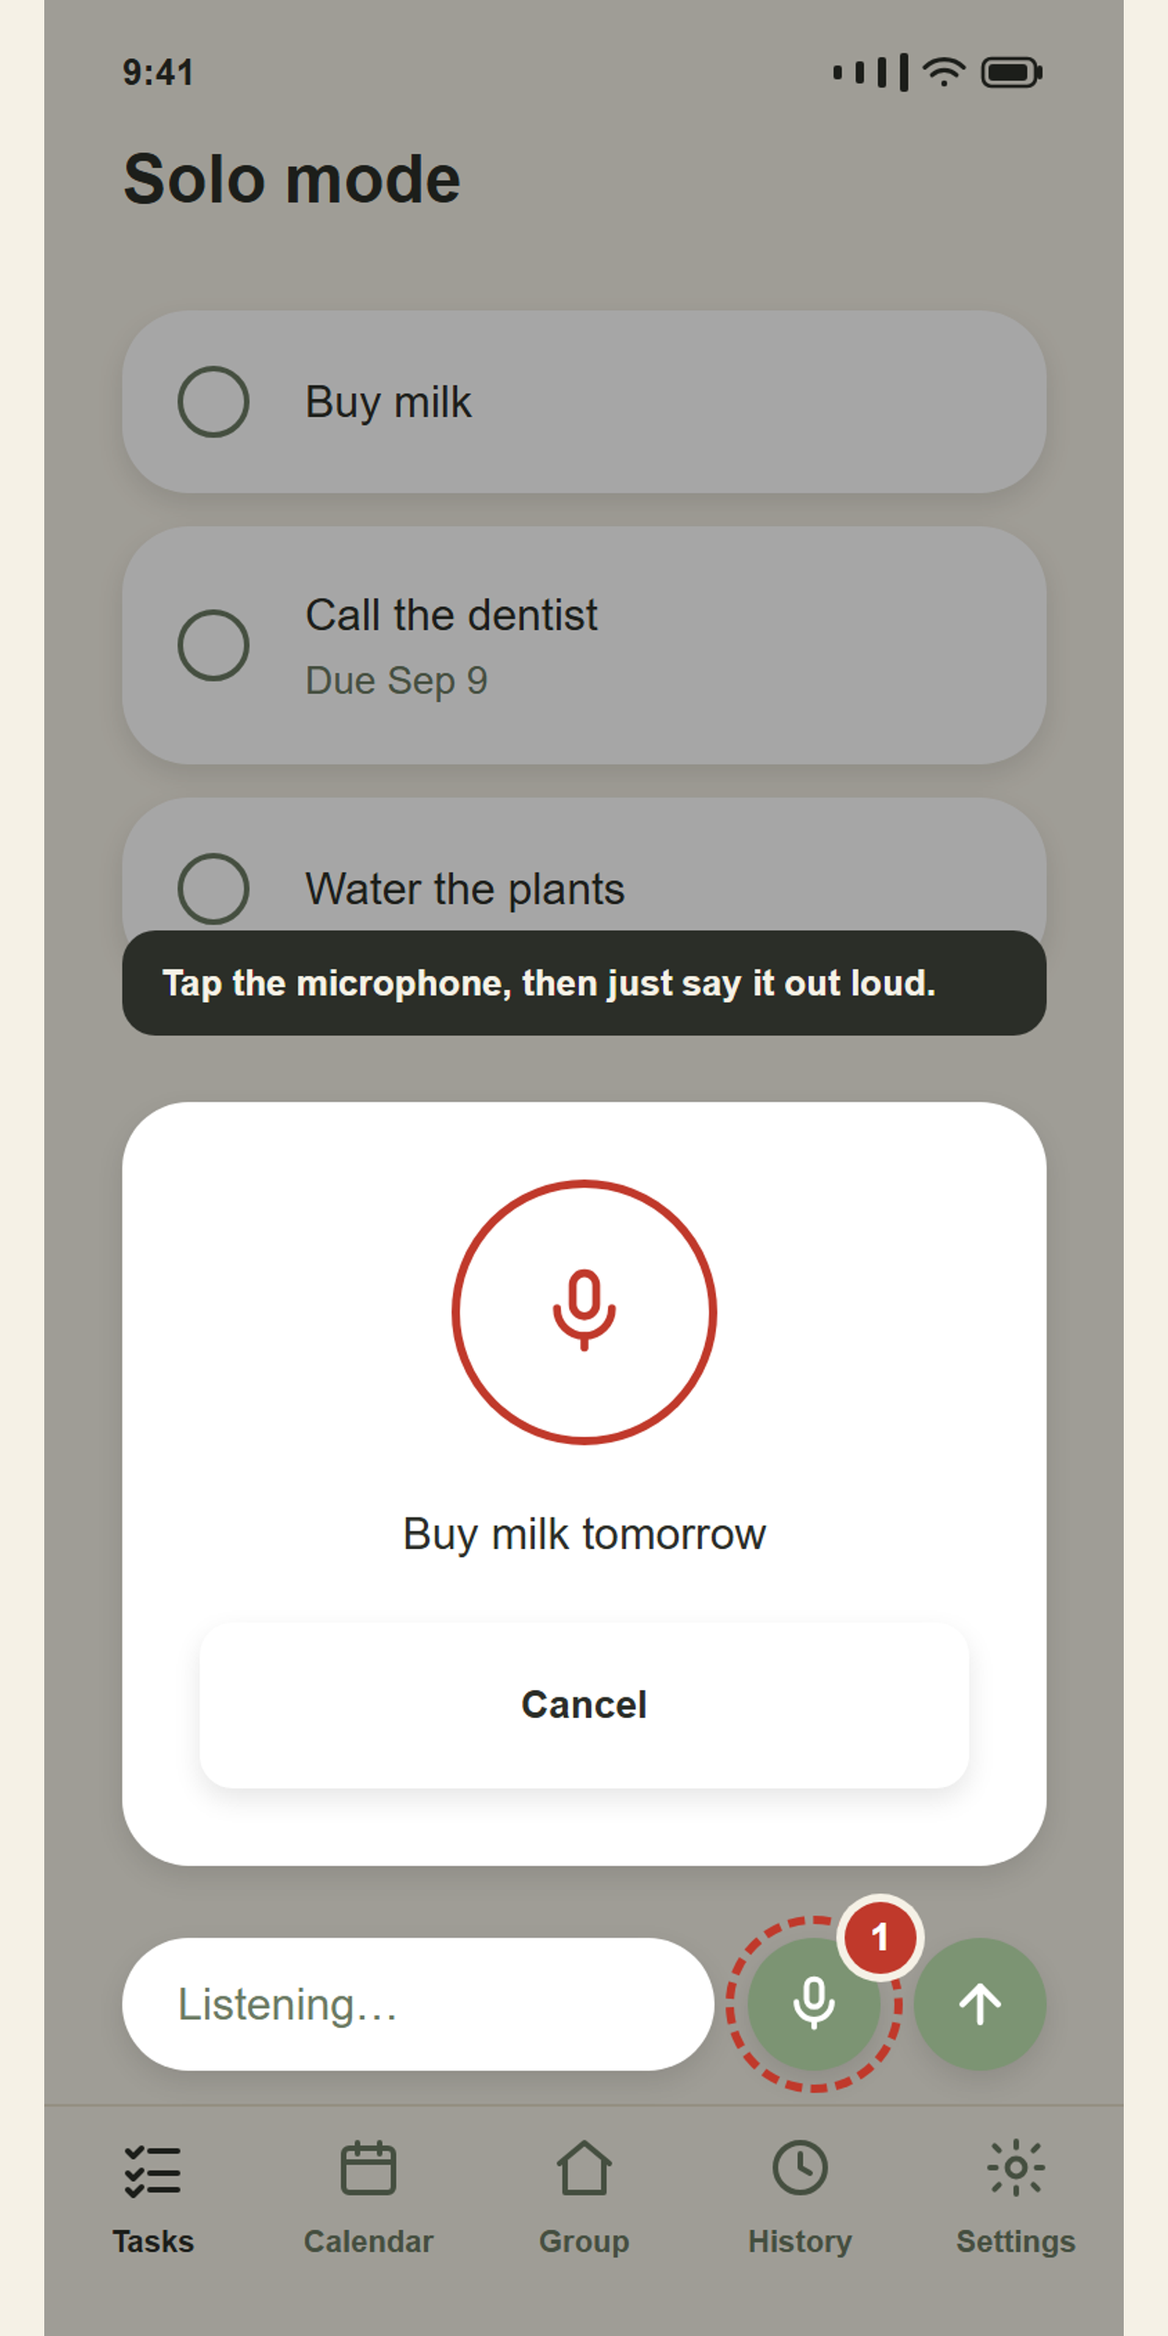
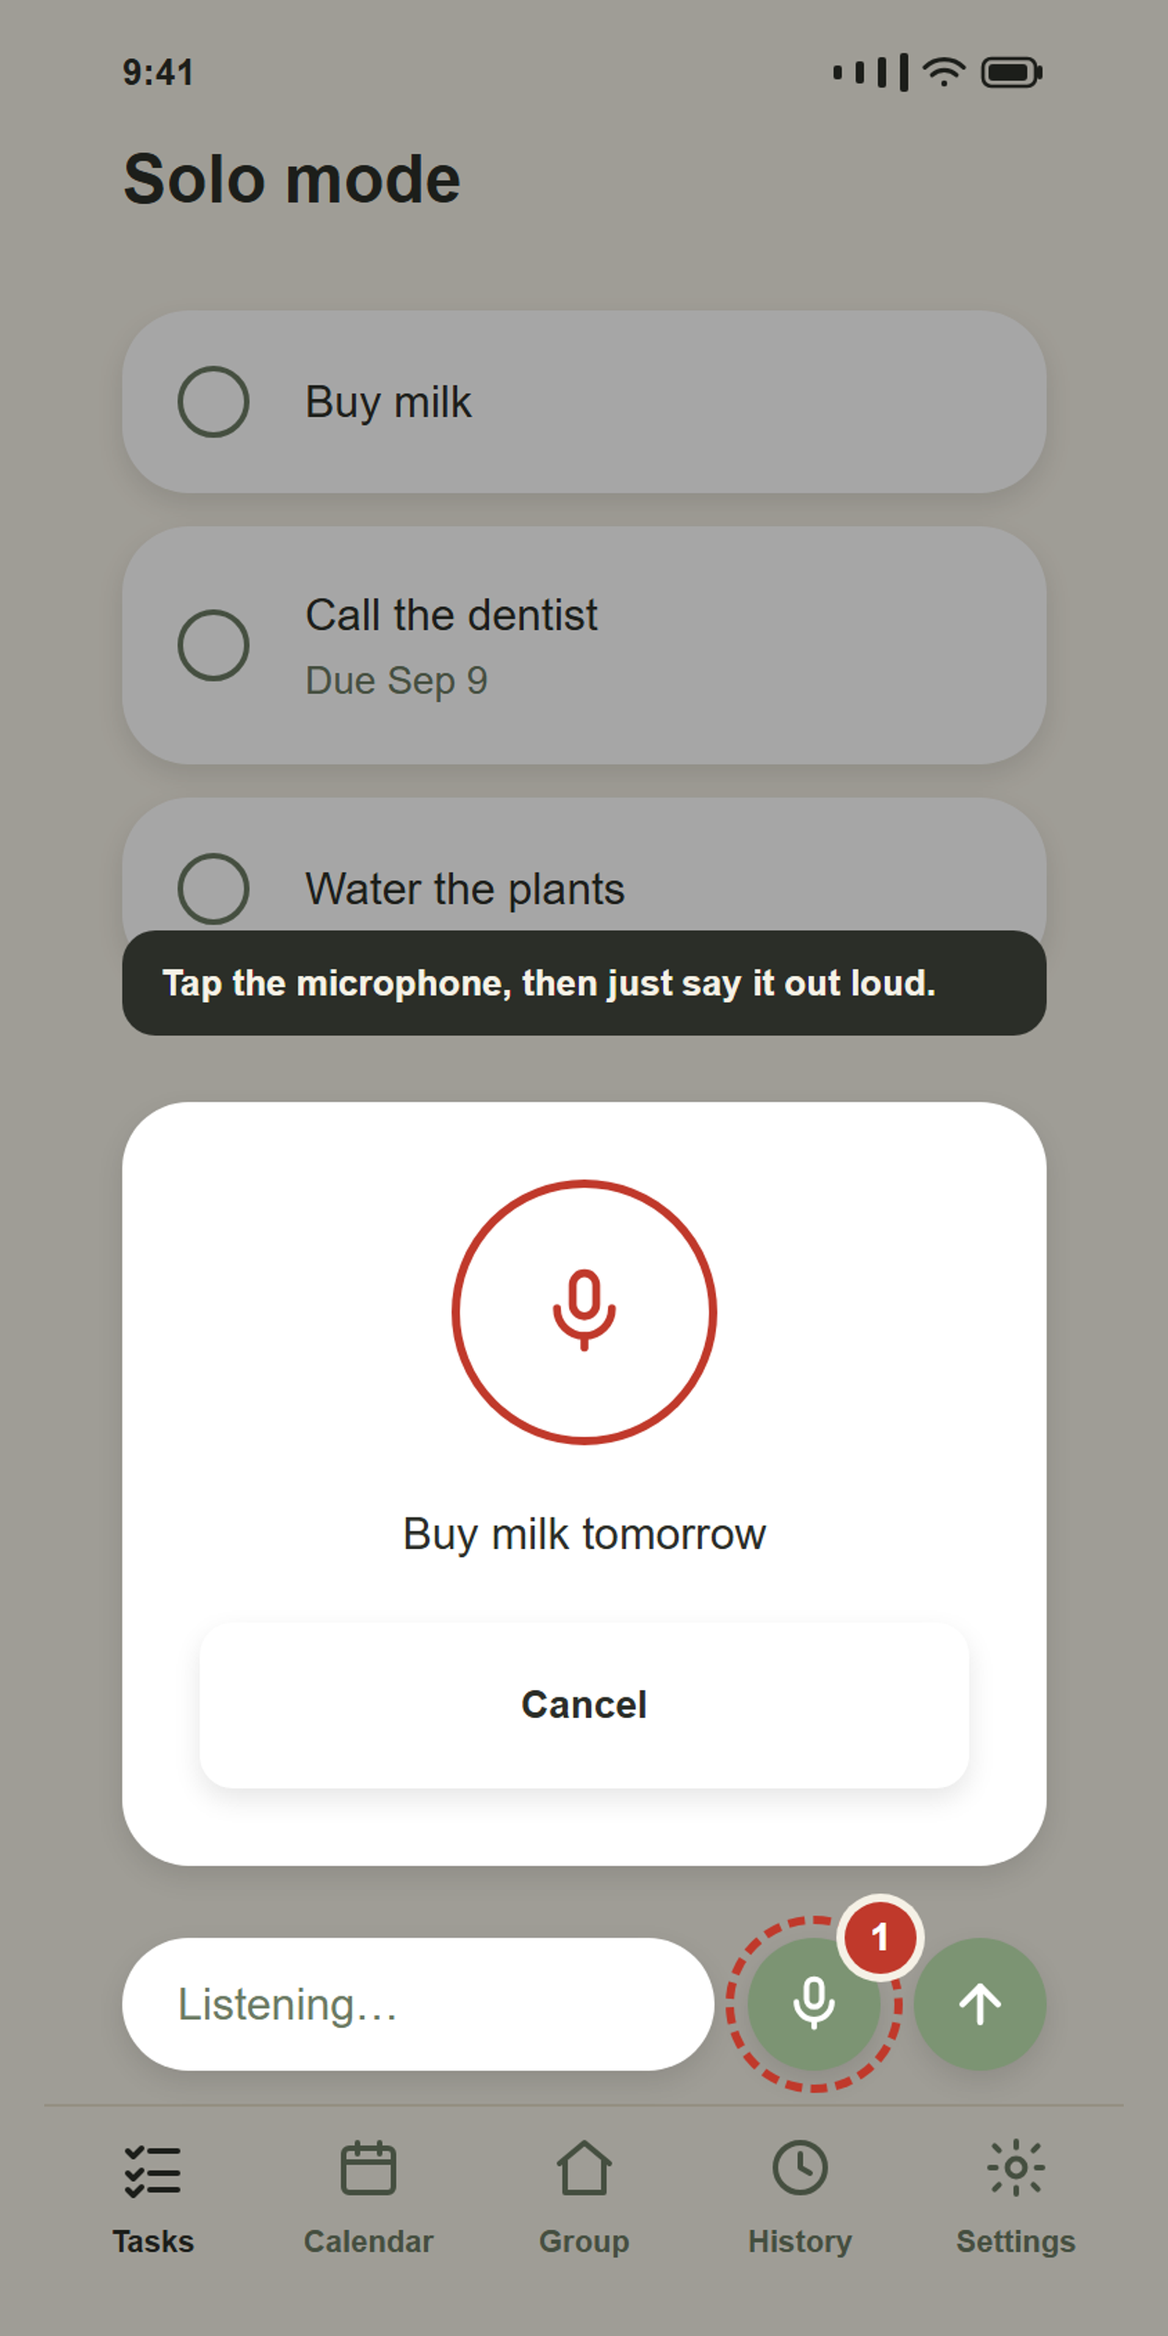
Show the calendar and voice in the Play listing
The published listing still sells the app as it was before either feature
shipped: four screenshots, none of them the calendar or the microphone, and
a description that mentions neither.

Screenshots. `npm run guide:screens` now writes six product shots instead of
four, adding the calendar and the listening panel, and SHOWCASE is ordered as
the Play upload order — Play gives the first two or three to search results,
so the set opens on what the app is and follows with the two things that set
it apart. All six are 1266x2532, exactly 2:1, 24-bit with no alpha, which is
inside every rule Play enforces on upload.

That padding used to be filled with the theme's cream, on the assumption that
the background runs to the edge of every screen. It does not any more: the
voice screen dims the whole screen behind the listening panel, and cream bars
around that read as a frame rather than vanishing. finishShot() now samples
the capture's own edge instead, which leaves the other seventeen screens
byte-identical.

Listing copy. The short description leads on the two new features, the full
description gains a paragraph each for voice and the calendar plus the verbs
that were missing from FEATURES, and the release note is now the calendar
release rather than the voice one — with a calendar-only variant for the case
where a voice build already reached the track. Both are inside Play's 500.

Data Safety gains a note that the Calendar tab plots the app's own due dates
[…]

Changed region(s): [[0.955, 0.0, 1.0, 1.0], [0.0, 0.0, 0.0616, 1.0]]

diff --git a/docs/play-store-listing.md b/docs/play-store-listing.md
@@ -17,9 +17,13 @@ Goodlist
 
 **Short description** (max 80 characters)
 ```
-Personal tasks that stay simple solo, and work together with your household.
+Personal tasks you can speak, see on a calendar, and share with your household.
 ```
-(78 characters)
+(79 characters)
+
+This leads on the two newest features because they are what a search result has to earn a tap
+with. If you would rather keep the solo-to-household framing, the previous line still fits:
+`Personal tasks that stay simple solo, and work together with your household.` (78 characters).
 
 **Full description** (max 4000 characters)
 ```
@@ -27,6 +31,15 @@ Goodlist is a personal task list that starts simple and grows with you.
 
 Sign up and start adding tasks in seconds — no household, no setup, no
 friction. Every task you create is private to you by default.
+
+Type a task, or tap the microphone and just say it: "Buy milk tomorrow"
+becomes a task, due tomorrow. You see the words it heard before anything is
+saved, and nothing is ever recorded — your own phone turns speech into text,
+and Goodlist only ever receives the text.
+
+Give a task a day and it turns up on the calendar, so you can see what's
+coming instead of scrolling a list. Tap a day to see what is on it, and move
+a task to another day with two taps.
 
 When you're ready, create or join a household with a partner. You can then
 send each other Requested tasks — clear, visible asks with a name attached,
@@ -36,8 +49,10 @@ changes what you already had.
 
 FEATURES
 • Personal tasks with optional notes and due dates
-• A calendar view — see what's due when, and move a task to another day
+• A calendar view — a dot on every day with something due, red if it's overdue
+• Move a task to another day with two taps
 • Add tasks by speaking, including dates like "buy milk tomorrow"
+• Tick off, undo or delete a task by voice — deleting always asks first
 • A history of everything you've completed
 • Optional household collaboration — create or join with an invite code
 • Request tasks from another household member; they see your name on it
@@ -51,6 +66,13 @@ group, and it starts with a 90-day free trial, no card needed.
 Goodlist doesn't show ads, doesn't track you for advertising, and doesn't
 sell your data. See our Privacy Policy for the specifics.
 ```
+
+> **The published listing does not currently match the block above.** The live description
+> opens "Goodlist is a simple, fast to-do list for your own tasks", is organised under CAPS
+> section headings, and mentions neither voice nor the calendar — an older draft that predates
+> this file. Pasting the block above replaces it wholesale, which is the intended direction:
+> this file is the one that gets checked against the privacy policy. Replace it in one edit
+> rather than patching the live copy, so the two stop diverging.
 
 **Category**
 ```
@@ -89,37 +111,81 @@ in-app Privacy Policy and Terms screens render from, so the reviewed policy and 
 cannot disagree. **Turn Pages on before submitting:** repo Settings → Pages → Source: *Deploy from a
 branch*, branch `main`, folder `/docs`. Load the URLs in a private window once to confirm.
 
-## Release notes — the voice release
+## Screenshots
+
+Play takes 2–8 phone screenshots. Six live in `docs/screenshots/`, written by
+`npm run guide:screens` — the same screens as the user guide, re-rendered with the teaching
+callouts suppressed so they read as the app rather than as a tutorial. **Upload them in this
+order**; Play gives the first two or three to search results, so the list opens on what the app
+is and follows with the two things that set it apart.
+
+| # | File | What it shows |
+|---|---|---|
+| 1 | `05-my-list.png` | The task list — what the app is, in one glance |
+| 2 | `19-calendar.png` | The month grid with due-date dots, and a selected day below it |
+| 3 | `18-voice.png` | The listening panel, showing "Buy milk tomorrow" heard and not yet saved |
+| 4 | `16-their-inbox.png` | The Requested tab — what a household member asked of you |
+| 5 | `11-invite-code.png` | The group card with its invite code |
+| 6 | `17-settings.png` | Settings and the theme picker |
+
+The published listing still shows only the four pre-voice shots, in an older order. Replacing the
+set is one drag per file in **Store listing → Phone screenshots**; Play keeps the upload order, so
+add them top to bottom as above.
+
+All six are **1266×2532, exactly 2:1, 24-bit PNG with no alpha** — inside every rule Play enforces
+on upload (shorter side ≥ 320px, longer ≤ 3840px, longer side at most twice the shorter) and over
+the 1080px-per-side floor for promotion eligibility. The generator guarantees that rather than
+leaving it to a device capture; the header comment in `scripts/generate-guide-screens.mjs` explains
+how. Re-check any time with:
+
+```bash
+npm run guide:screens
+```
+
+Play has no caption field for phone screenshots, so the "What it shows" column is for you, not for
+the listing — each shot has to carry its own meaning with no words around it.
+
+## Release notes — the calendar release
 
 Pasted into **Release notes** on the closed-testing release in Play Console. `eas submit` does not
 set these, so they are typed into the Console by hand for each release.
 
-Play caps this field at **500 characters per language**. The note below is inside that; check it
-again if you edit it.
+Play caps this field at **500 characters per language**. Both notes below are inside that; check
+again if you edit them.
 
-The two things it has to do are tell testers what to try and pre-empt the microphone prompt. A new
-permission appearing with no explanation is the fastest way to lose a tester, and a tester who
-uninstalls restarts their own 14-day clock.
+Use the first. It assumes the last build your testers received predates *both* the calendar and
+voice — which is the case as long as the published listing still shows the four pre-voice
+screenshots. If a voice build did reach the track in between, use the calendar-only note instead:
+re-announcing a feature testers already have reads as padding.
 
 ```
-What's new: you can talk to Goodlist.
+What's new: a calendar, and you can talk to Goodlist.
 
-Tap the microphone beside the send button and say things like:
-• "Buy milk tomorrow"
-• "Ask Sam to take the bins out"
-• "Finish the laundry"
-• "Undo"
-• "Open history"
+CALENDAR — tap Calendar at the bottom. Tasks with a day show up there: a dot means something is due, red means overdue. Tap a day to see it; tap a task's calendar button to move it.
 
-It shows what it heard before saving, and always asks before deleting anything.
+VOICE — tap the microphone beside the send button and say "Buy milk tomorrow", "Finish the laundry" or "Ask Sam to take the bins out".
 
-Your phone will ask for microphone access the first time — that's expected. Nothing is recorded: your phone turns speech into text, and Goodlist only ever receives the text.
+Your phone asks for the microphone the first time. Nothing is recorded: the phone makes the text, Goodlist only gets it.
 ```
 
-Two things deliberately left out. There is no mention of the commands that are *not* wired up,
-because every verb in the guide now works — that was true of an earlier draft and is not any more.
-And there is no apology for it being rough: testers who are told a feature is unfinished report
-less, not more.
+The calendar-only variant, if a voice build already went out:
+
+```
+What's new: Goodlist has a calendar.
+
+Tap Calendar in the tab bar. Every task you gave a day to turns up on that day — a dot under the date means something is due, and a red dot means it is overdue and still not done.
+
+Tap any day to see what is on it, and add straight to that day. To move a task, tap the little calendar button on it and pick a new day: two taps and it has moved.
+
+Tasks with no day are gathered at the bottom, so nothing gets lost.
+```
+
+Three things deliberately kept. The microphone sentence stays in the first note even though voice
+is no longer the headline — a permission prompt appearing with no explanation is the fastest way
+to lose a tester, and a tester who uninstalls restarts their own 14-day clock. There is no mention
+of commands that are *not* wired up, because every verb in the guide now works. And there is no
+apology for anything being rough: testers who are told a feature is unfinished report less, not
+more.
 
 ## Content rating questionnaire (IARC)
 
@@ -188,6 +254,21 @@ collect*, plus the speech-service entry under *Sharing & service providers* — 
 `src/content/legal.ts`. Google fetches that policy and cross-checks it against this form, so the two
 must ship together.
 
+### Note on the calendar view
+
+The Calendar tab plots the due dates already stored on the user's own tasks. It does **not** read,
+write, or sync the device calendar: there is no `expo-calendar` dependency, no `READ_CALENDAR` or
+`WRITE_CALENDAR` in the manifest, and no calendar permission is requested. Nothing new is
+collected, so **no Data Safety answer changes for it** — the due dates are already declared under
+User-generated content. Verify before answering rather than trusting this paragraph:
+
+```bash
+grep -rn "expo-calendar\|READ_CALENDAR\|WRITE_CALENDAR" package.json app.json src   # expect no matches
+```
+
+If a reviewer asks, the accurate description is: *an in-app month view of the user's own task due
+dates; the device calendar is neither read nor written.*
+
 ### Note on the "Purchase history" declaration
 
 Premium is sold through Google Play Billing, via RevenueCat's SDK. Card and bank details never
@@ -228,7 +309,7 @@ instruction set:
 | Name | Full app access |
 | Username | *(a real Supabase account created for this purpose)* |
 | Password | *(its password)* |
-| Any other instructions | Sign in with the credentials above. The Tasks tab is the main screen; add a task with the compose bar at the bottom. Group features are under the Group tab — this account is already in a Family group, so the Requested-tasks flow can be reviewed there. |
+| Any other instructions | Sign in with the credentials above. The Tasks tab is the main screen; add a task with the compose bar at the bottom. The microphone beside the send button dictates a task — the phone asks for microphone access the first time, and the words appear on screen for confirmation before anything is saved. The Calendar tab shows tasks that have a due date; it reads only the app's own data, not the device calendar. Group features are under the Group tab — this account is already in a Family group, so the Requested-tasks flow can be reviewed there. |
 
 Create that account on the production Supabase project, seed it with a handful of tasks, a group,
 and at least one requested task, and **do not delete it** — Play re-uses it for every future update

diff --git a/docs/play-store-deployment.md b/docs/play-store-deployment.md
@@ -165,15 +165,21 @@ account (email + password) on your Supabase project, seeded with a few tasks and
 Reviewers who cannot get past a login screen reject the submission. Create this account now and do
 not delete it.
 
-### B6. Screenshots — the existing images cannot be used as-is
+### B6. ~~Screenshots — the existing images cannot be used as-is~~ — **fixed**
 
 Play needs 2–8 phone screenshots (aim for 4–6), JPEG or **24-bit PNG with no alpha**, min dimension
 320px, max 3840px, and **no side more than twice the other (2:1 max)**.
 
-`docs/user-guide/images/*.png` are 780×1688 — that is 1:2.16, past the 2:1 cap, so Play Console will
-reject them on upload. They are also illustrations rather than captures of the running app. Take real
-screenshots from a device or emulator at 1080×2160 or 1080×1920 (both exactly ≤ 2:1). Good candidates:
-the task list with a few tasks, task detail, a group screen, history, and appearance/themes.
+The guide illustrations in `docs/user-guide/images/` are 780×1688 — 1:2.16, past the 2:1 cap, so
+those would still be rejected on upload. Do not reach for them. `npm run guide:screens` now also
+writes six callout-free product shots to `docs/screenshots/` at **1266×2532, exactly 2:1, 24-bit
+with no alpha**, which Play accepts as they are: it upscales each capture and pads the canvas to
+2:1 in the shot's own edge colour, so nothing is clipped and the padding does not read as padding.
+
+Which six, in which upload order, and what each one is for:
+[`play-store-listing.md` § Screenshots](./play-store-listing.md#screenshots). Real device captures
+are still welcome if you want them — these are faithful mockups, not captures of the running app —
+but they are no longer blocking anything.
 
 ### B7. ~~The feature graphic has an alpha channel~~ — **fixed**
 
@@ -242,7 +248,8 @@ applies operations in a fixed pipeline order rather than call order.
 7. Turn on GitHub Pages (Settings → Pages → `main` / `/docs`) so the privacy, terms, and
    account-deletion pages go live (B3, B4), and check all three load in a private window.
 8. Fill the **Store listing**: copy from `play-store-listing.md`, `assets/images/play-store-icon.png`,
-   `assets/images/feature-graphic.png`, and the new screenshots (B6).
+   `assets/images/feature-graphic.png`, and the six shots in `docs/screenshots/` — upload order and
+   captions are in that file's Screenshots section.
 9. Complete **App content** end to end — it all must be green before production:
    privacy policy URL · App access (B5 demo credentials) · Ads: No · Content rating questionnaire ·
    Target audience: 13+, not designed for children · Data safety (matching the policy, including the

diff --git a/README.md b/README.md
@@ -6,13 +6,15 @@ and a realtime [Supabase](https://supabase.com) backend. It runs on Android and 
 <https://goodlist.expo.app>.
 
 <p align="center">
-  <img src="docs/screenshots/05-my-list.png" width="195" alt="The Tasks screen in Solo mode, showing four task cards">
-  <img src="docs/screenshots/16-their-inbox.png" width="195" alt="The Requested tab showing two tasks a group member asked for, with an unread badge on Tasks">
-  <img src="docs/screenshots/11-invite-code.png" width="195" alt="A group card showing the group name, invite code and member list">
-  <img src="docs/screenshots/17-settings.png" width="195" alt="Settings, showing the display name field and the theme picker">
+  <img src="docs/screenshots/05-my-list.png" width="130" alt="The Tasks screen in Solo mode, showing four task cards">
+  <img src="docs/screenshots/19-calendar.png" width="130" alt="A month grid with dots under the days that have tasks due, and the selected day's tasks listed below it">
+  <img src="docs/screenshots/18-voice.png" width="130" alt="The listening panel over the task list, showing the words &quot;Buy milk tomorrow&quot; it heard">
+  <img src="docs/screenshots/16-their-inbox.png" width="130" alt="The Requested tab showing two tasks a group member asked for, with an unread badge on Tasks">
+  <img src="docs/screenshots/11-invite-code.png" width="130" alt="A group card showing the group name, invite code and member list">
+  <img src="docs/screenshots/17-settings.png" width="130" alt="Settings, showing the display name field and the theme picker">
 </p>
 <p align="center">
-  <sub>Your own list · What your group asked of you · Invite code · Nine themes</sub>
+  <sub>Your own list · What is due when · Say it instead of typing · What your group asked of you · Invite code · Nine themes</sub>
 </p>
 
 ## Using the app
@@ -121,7 +123,8 @@ docs/
   guide/          Pages from main /docs at https://jericrealubit.github.io/goodlist/
   legal/
   user-guide/     The same walkthrough as Markdown, for reading on GitHub
-  screenshots/    Callout-free product shots used by this README
+  screenshots/    Callout-free product shots used by this README and uploaded to the
+                  Play listing (npm run guide:screens)
 scripts/
   lib/            site-shell.mjs (shared site chrome), distribution-report.mjs
 supabase/
